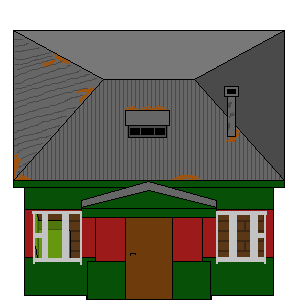
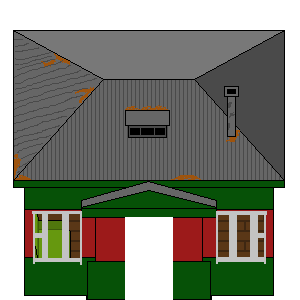
Создание входа в дом

Changed region(s): [[0.39, 0.72, 0.6, 1.0]]

diff --git a/start.py b/start.py
@@ -1,4 +1,4 @@
-from random import sample
+from random import sample, randint
 import sys
 
 import pygame
@@ -65,12 +65,32 @@ def start_screen():
 
 class House1(pygame.sprite.Sprite):
     def __init__(self, pos_x, pos_y):
-        super().__init__(all_sprites, player_group)
-        self.x = 270
-        self.y = 320
-        self.rifle = Nothing()
+        super().__init__(all_sprites, house_group)
         self.frames = []
         self.sheet = load_image("lil house comb.png")
+        self.cut_sheet(self.sheet, 2, 1)
+        self.cur_frame = 0
+        self.image = self.frames[self.cur_frame]
+        self.mask = pygame.mask.from_surface(self.image)
+        self.rect = self.image.get_rect()
+        self.rect.x, self.rect.y = tile_width * pos_x, tile_height * pos_y
+
+    def cut_sheet(self, sheet, columns, rows):
+        self.rect = pygame.Rect(0, 0, sheet.get_width() // columns,
+                                sheet.get_height() // rows)
+        for j in range(rows):
+            for i in range(columns):
+                frame_location = (self.rect.w * i, self.rect.h * j)
+                self.frames.append(sheet.subsurface(pygame.Rect(
+                    frame_location, self.rect.size)))
+
+
+class Door1(pygame.sprite.Sprite):
+    def __init__(self, pos_x, pos_y):
+        super().__init__(all_sprites, door_group)
+        self.frames = []
+        self.open = 0
+        self.sheet = load_image("lil house d.png")
         self.cut_sheet(self.sheet, 1, 1)
         self.cur_frame = 0
         self.image = self.frames[self.cur_frame]
@@ -86,6 +106,7 @@ class House1(pygame.sprite.Sprite):
                 frame_location = (self.rect.w * i, self.rect.h * j)
                 self.frames.append(sheet.subsurface(pygame.Rect(
                     frame_location, self.rect.size)))
+
 
 class House(pygame.sprite.Sprite):
     def __init__(self, pos_x, pos_y):
@@ -170,12 +191,23 @@ class Player(pygame.sprite.Sprite):
                     frame_location, self.rect.size)))
 
     def update(self):
+        ikey = False
         self.cur_frame = self.cur_frame % len(self.frames)
         self.image = self.frames[self.cur_frame]
-        if not pygame.sprite.collide_mask(self, house):
-            self.move = True
-        else:
-            self.move = False
+        for h in hs:
+            if not pygame.sprite.collide_mask(self, h):
+                self.move = True
+            else:
+                self.move = False
+                break
+        for d in ds:
+            if pygame.sprite.collide_mask(self, d):
+                hs[ds.index(d)].image = load_image('lil house inside.png')
+                hs[ds.index(d)].mask = pygame.mask.from_surface(load_image('lil house gr.png'))
+                d.mask = pygame.mask.from_surface(load_image('lil house floor.png'))
+            else:
+                hs[ds.index(d)].image = load_image('lil house comb.png')
+                hs[ds.index(d)].mask = pygame.mask.from_surface(load_image('lil house comb.png'))
 
 
 class Rifle(pygame.sprite.Sprite):
@@ -245,16 +277,23 @@ class Camera:
 
 all_sprites = pygame.sprite.Group()
 start_screen()
+door_group = pygame.sprite.Group()
 tiles_group = pygame.sprite.Group()
 player_group = pygame.sprite.Group()
 gun_group = pygame.sprite.Group()
 house_group = pygame.sprite.Group()
-house = House1(15, 15)
 rifle = Nothing()
 running = True
 camera = Camera()
 player, level_x, level_y = generate_level(load_level('level1.txt'))
 print("\n".join(load_level('level1.txt')))
+hs = []
+ds = []
+for i in range(3):
+    x = randint(0, 50)
+    y = randint(0, 50)
+    hs.append(House1(x, y))
+    ds.append(Door1(x, y))
 STEP = 4
 e = 0
 to_move = False
@@ -263,7 +302,7 @@ to_right = False
 to_up = False
 to_down = False
 to_shoot = False
-coord = []
+coord = [0]
 kx = 0
 ky = 0
 yy = 0
@@ -296,8 +335,8 @@ while running:
         # доработать движение, только наискосок пока ходит
         player.cur_frame = (player.cur_frame + 1) % len(player.frames)
         xy = abs(coord[0] - width // 2) + abs(coord[1] - height // 2)
-        xx = abs(coord[0] - width // 2) / xy
-        yy = abs(coord[1] - height // 2) / xy
+        xx = abs(coord[0] - width // 2) / (xy + 0.000001)
+        yy = abs(coord[1] - height // 2) / (xy + 0.000001)
         if coord[0] < width // 2:
             kx = -1
         else:
@@ -330,6 +369,8 @@ while running:
         camera.apply(sprite)
 
     tiles_group.draw(screen)
+    door_group.draw(screen)
+    house_group.draw(screen)
     player_group.draw(screen)
     all_sprites.update()
     gun_group.draw(screen)
